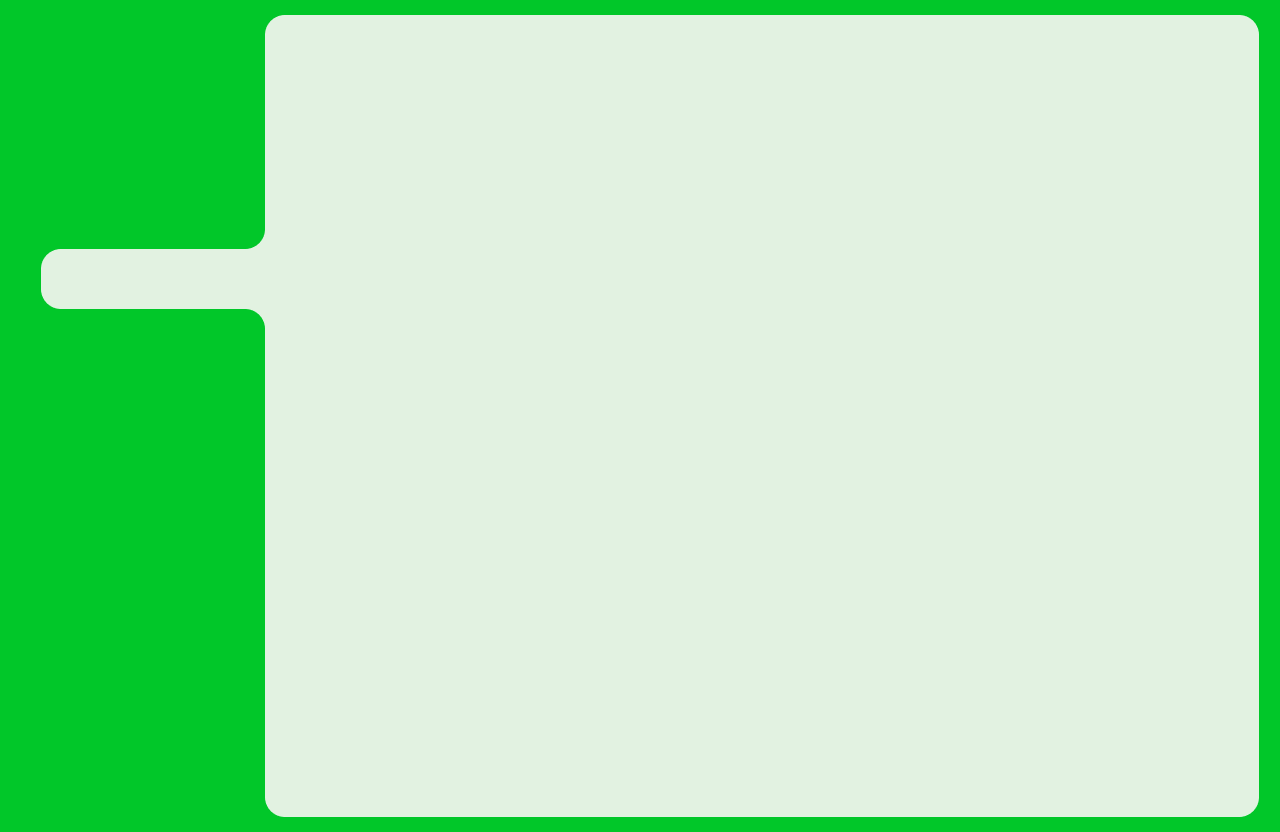
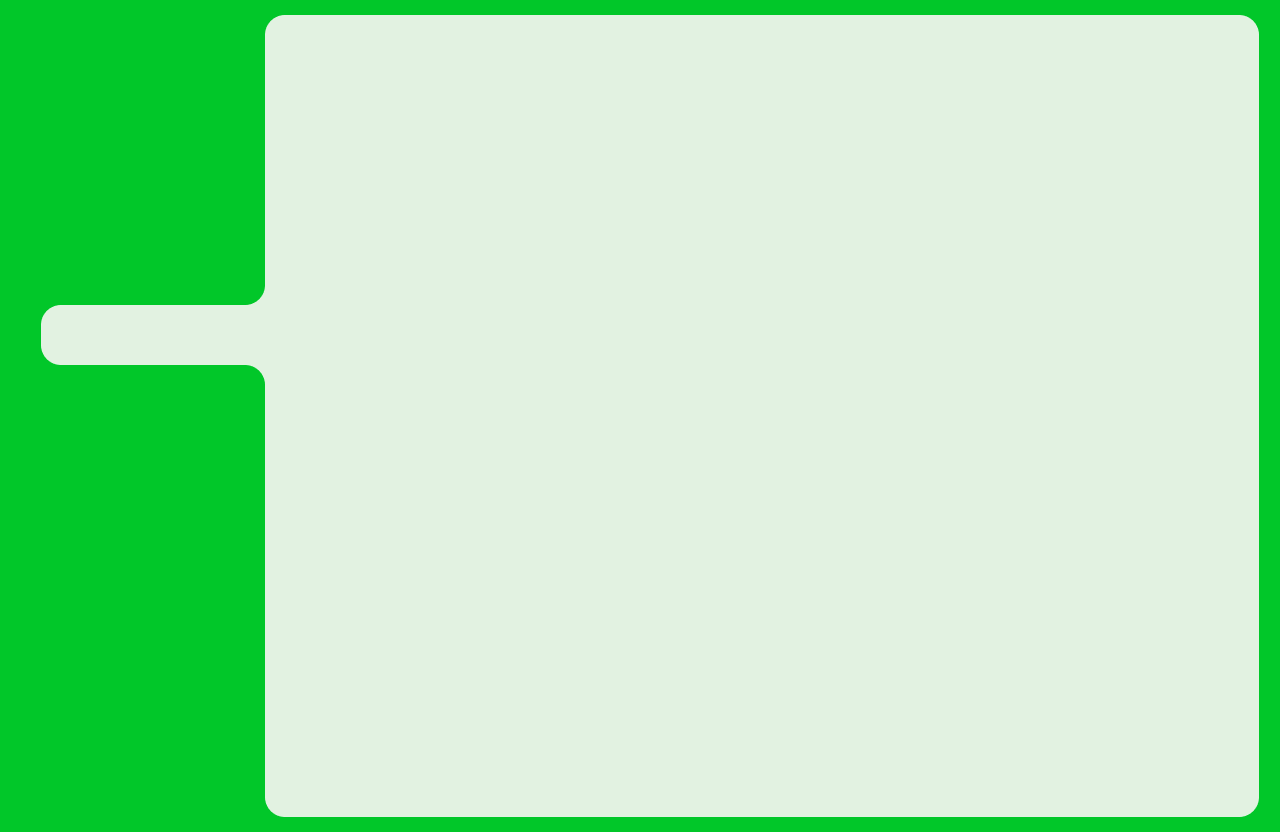
update UI to add class tab

Changed region(s): [[0.0312, 0.2812, 0.2188, 0.4688]]

diff --git a/src/main/resources/com/flash_card/styles/styles.css b/src/main/resources/com/flash_card/styles/styles.css
@@ -7,6 +7,10 @@
     -fx-background-image: url("../assets/backgrounds/BG-home.png");
 }
 
+.class-background {
+    -fx-background-image: url("../assets/backgrounds/BG-class.png");
+}
+
 .teacher-background {
     -fx-background-image: url("../assets/backgrounds/BG-teacherMode.png");
 }

diff --git a/src/main/java/com/flash_card/framework/ViewController.java b/src/main/java/com/flash_card/framework/ViewController.java
@@ -39,6 +39,10 @@ public abstract class ViewController {
                 fxmlFile = "/com/flash_card/fxml/home.fxml";
                 break;
                 /*
+            case "class":
+                    fxmlFile = "/com/flash_card/fxml/class.fxml";
+                    break;
+
             case "teacher":
                 fxmlFile = "/com/flash_card/fxml/teacher-mode.fxml";
                 break;
